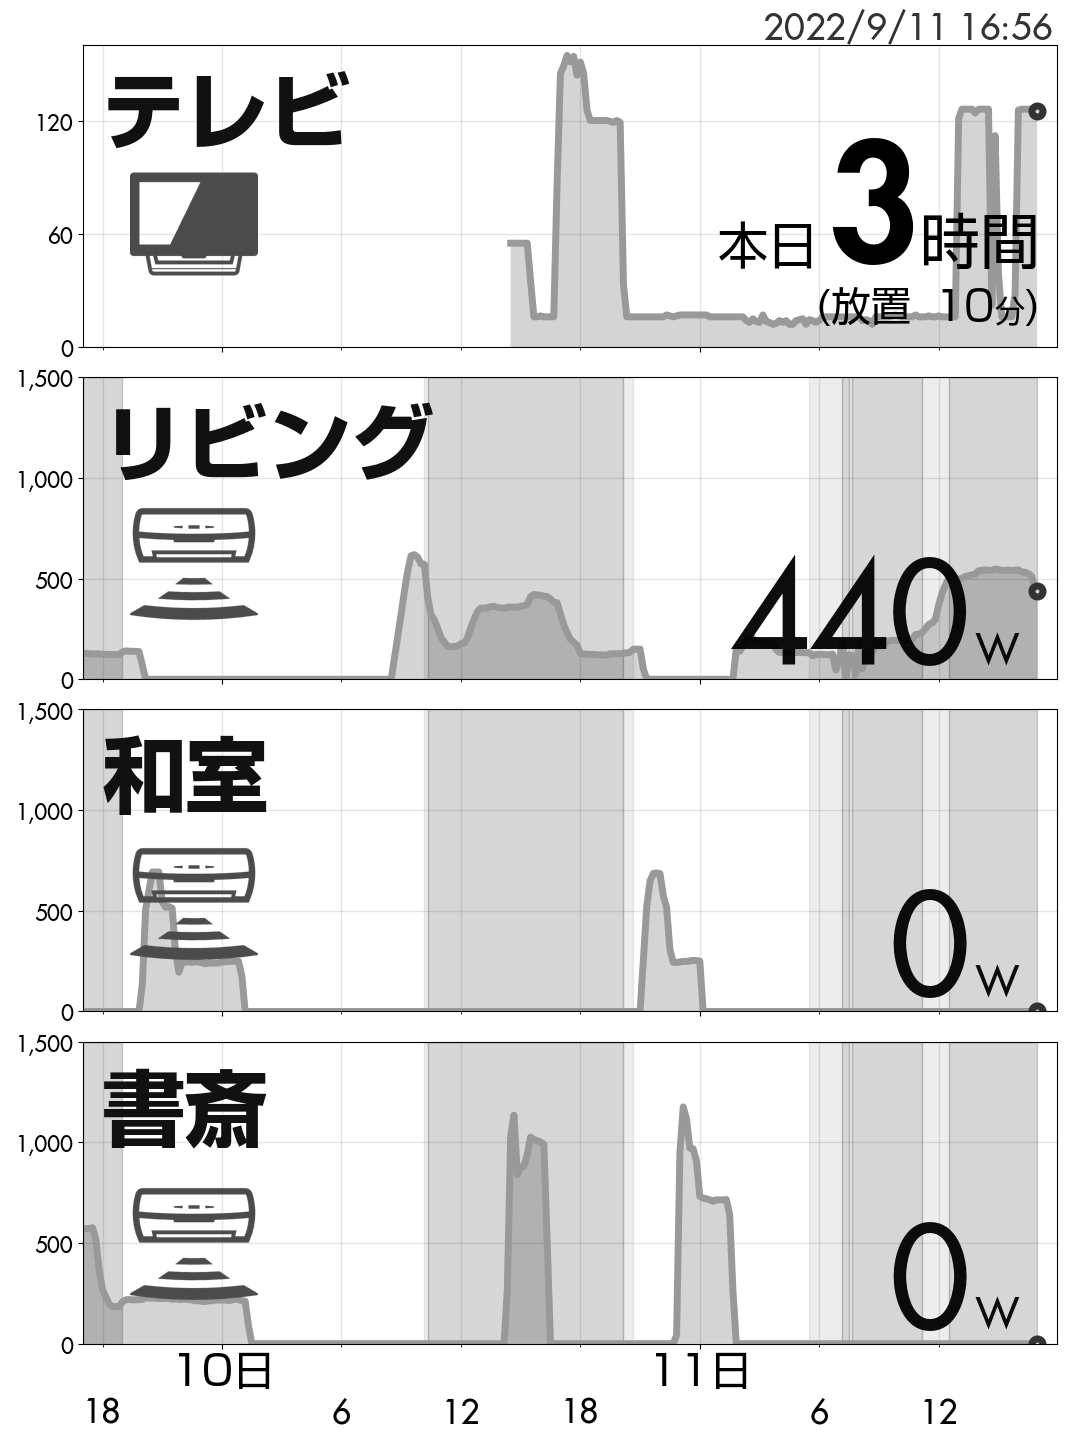
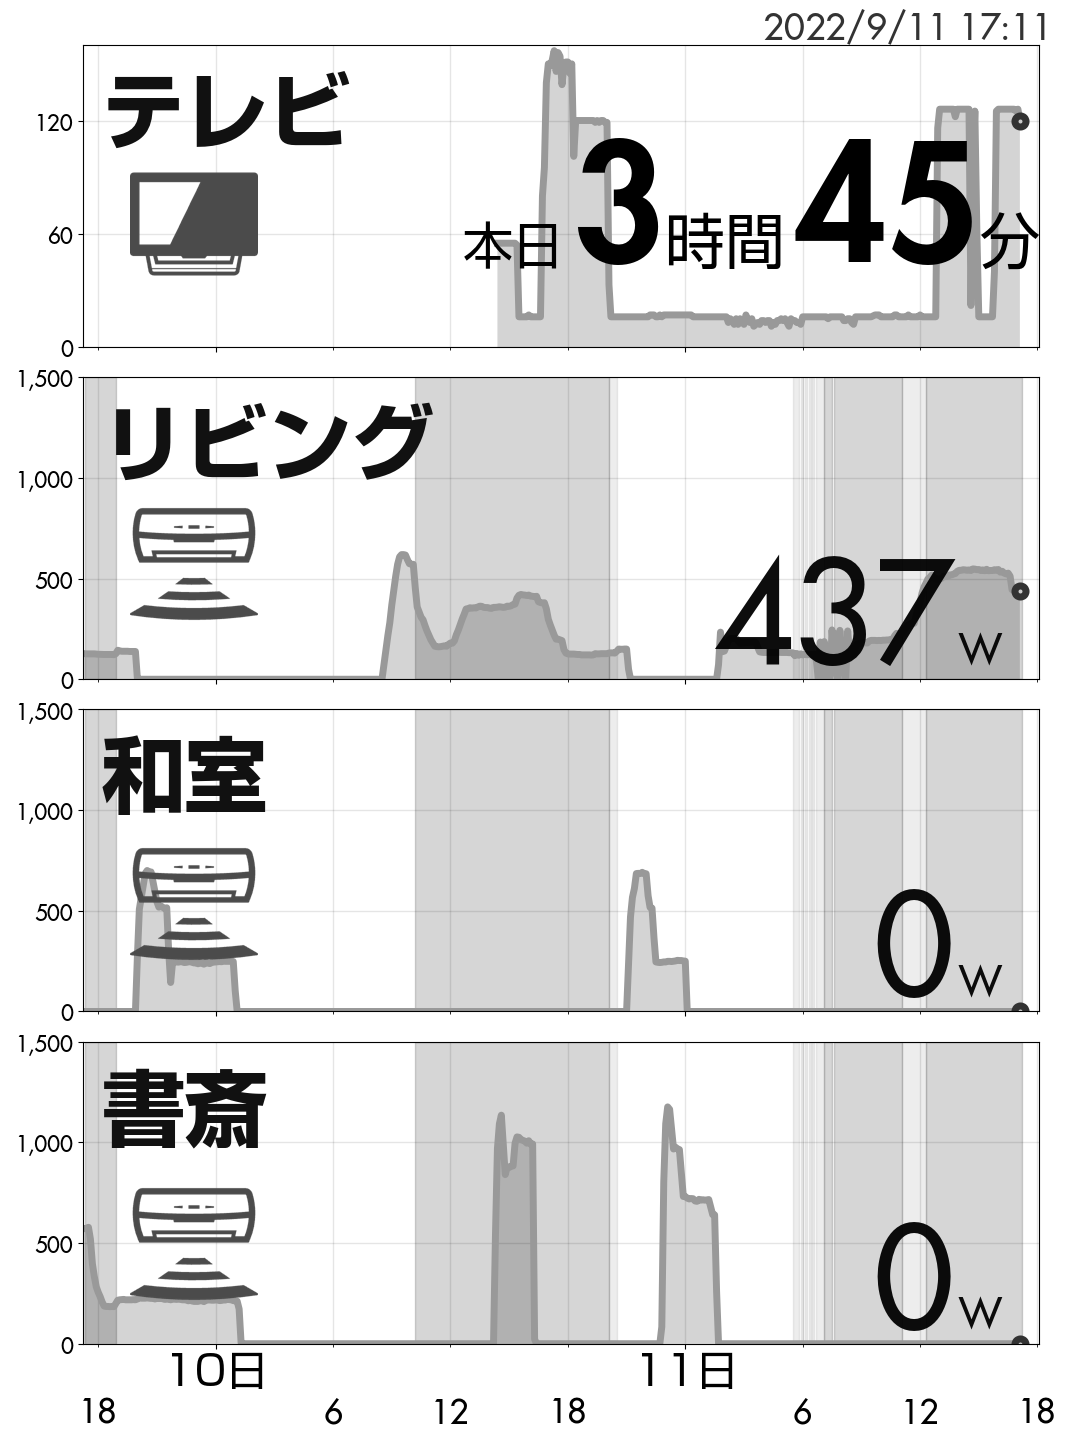
fix: 放置時間の算出方法を微調整

diff --git a/src/sensor_data.py b/src/sensor_data.py
@@ -14,12 +14,12 @@ from(bucket: "{bucket}")
     |> filter(fn:(r) => r._measurement == "{sensor_type}")
     |> filter(fn: (r) => r.hostname == "{hostname}")
     |> filter(fn: (r) => r["_field"] == "{param}")
-    |> fill(usePrevious: true)
     |> aggregateWindow(every: {window}, fn: mean, createEmpty: false)
+    |> fill(usePrevious: true)
 """
 
 
-def fetch_data_impl(config, sensor_type, hostname, param, period, window="10m"):
+def fetch_data_impl(config, sensor_type, hostname, param, period, window):
     try:
         token = os.environ.get("INFLUXDB_TOKEN", config["TOKEN"])
         query = FLUX_QUERY.format(
@@ -43,7 +43,7 @@ def fetch_data_impl(config, sensor_type, hostname, param, period, window="10m"):
         raise
 
 
-def fetch_data(config, sensor_type, hostname, param, period="30h", window="10m"):
+def fetch_data(config, sensor_type, hostname, param, period="30h", window="6m"):
     try:
         table_list = fetch_data_impl(
             config, sensor_type, hostname, param, period, window
@@ -63,7 +63,7 @@ def fetch_data(config, sensor_type, hostname, param, period="30h", window="10m")
 
 
 def get_valve_on_range(
-    config, sensor_type, hostname, param, threshold, period="30h", window="10m"
+    config, sensor_type, hostname, param, threshold, period="30h", window="6m"
 ):
     try:
         table_list = fetch_data_impl(
@@ -128,7 +128,7 @@ def get_valve_on_range(
 
 
 def get_equip_on_minutes(
-    config, sensor_type, hostname, param, threshold, period="30h", window="10m"
+    config, sensor_type, hostname, param, threshold, period="30h", window="6m"
 ):
     m = re.search(r"^(\d+)m$", window)
     if m is None:

diff --git a/src/usage_panel.py b/src/usage_panel.py
@@ -46,7 +46,7 @@ def get_face_map(font_config):
             },
         },
         "date": {
-            "value": get_font(font_config, "EN_MEDIUM", 40),
+            "value": get_font(font_config, "EN_MEDIUM", 36),
         },
     }
 
@@ -96,7 +96,9 @@ def draw_time(img, x, y, label, minutes, suffix, face):
         x -= (
             draw_text(
                 img,
-                "0" if minutes == 0 else "{minute:02d}".format(minute=minutes % 60),
+                "{minute:d}".format(minute=minutes)
+                if minutes < 10
+                else "{minute:02d}".format(minute=minutes % 60),
                 [x, y],
                 face["value"],
                 "right",
@@ -147,6 +149,7 @@ def draw_usage(img, panel_config, db_config, icon_config, face):
         panel_config["TARGET"]["PARAM"],
         panel_config["TARGET"]["THRESHOLD"]["WORK"],
         period,
+        "5m",
     )
     wake_minutes = get_equip_on_minutes(
         db_config,
@@ -155,8 +158,9 @@ def draw_usage(img, panel_config, db_config, icon_config, face):
         panel_config["TARGET"]["PARAM"],
         panel_config["TARGET"]["THRESHOLD"]["WAKE"],
         period,
+        "5m",
     )
-    leave_minutes = wake_minutes - work_minutes
+    leave_minutes = max(wake_minutes - work_minutes - 5, 0)
 
     logging.info(
         "today usage: {work} min (leave: {leave} min)".format(
